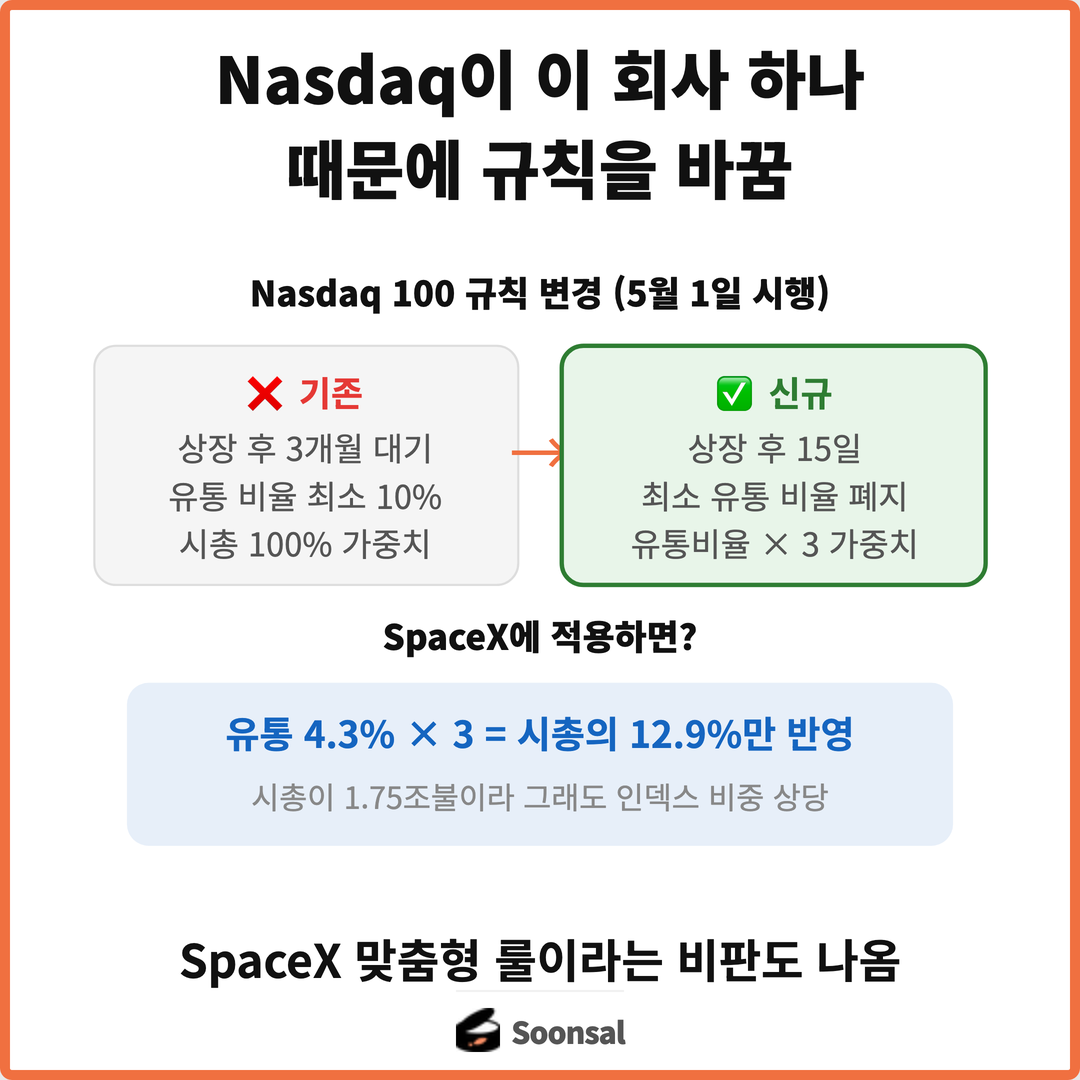
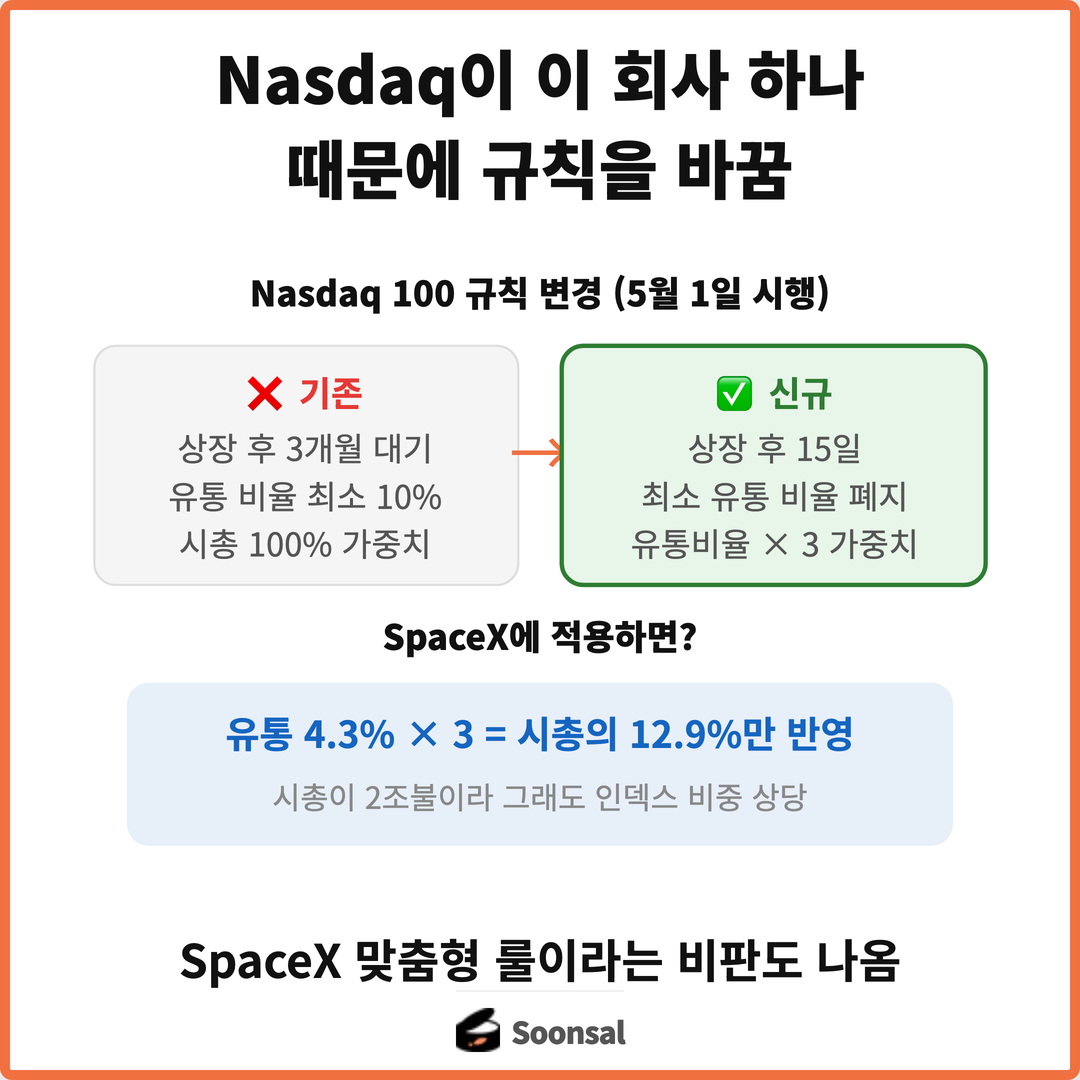
Add 순살카드뉴스 0406

Changed region(s): [[0.2444, 0.7028, 0.7639, 0.7639]]

diff --git a/cardnews/2026/0406.html b/cardnews/2026/0406.html
@@ -96,7 +96,7 @@
 
 <!-- ===== CARD 2 (팩트폭탄) ===== -->
 <div class="card">
-  <div class="top-text">시총 1.75조불짜리가<br>상장함</div>
+  <div class="top-text">시총 2조불짜리가<br>상장함</div>
   <div class="illust">
     <svg width="460" height="280" viewBox="0 0 460 280">
       <!-- SpaceX vs 유통 비율 비교 -->
@@ -104,7 +104,7 @@
 
       <!-- 시총 바 -->
       <rect x="40" y="50" width="380" height="40" rx="6" fill="#1565C0"/>
-      <text x="230" y="77" text-anchor="middle" font-size="16" font-weight="700" fill="#fff">시총 $1.75조 — 미국 5위 기업</text>
+      <text x="230" y="77" text-anchor="middle" font-size="16" font-weight="700" fill="#fff">시총 $2조 — 미국 5위 기업</text>
 
       <!-- 유통 비율 바 -->
       <rect x="40" y="105" width="16" height="40" rx="6" fill="#e53935"/>
@@ -158,7 +158,7 @@
 
       <rect x="40" y="195" width="380" height="75" rx="10" fill="#1565C0" opacity="0.1"/>
       <text x="230" y="225" text-anchor="middle" font-size="17" font-weight="700" fill="#1565C0">유통 4.3% × 3 = 시총의 12.9%만 반영</text>
-      <text x="230" y="253" text-anchor="middle" font-size="14" fill="#888">시총이 1.75조불이라 그래도 인덱스 비중 상당</text>
+      <text x="230" y="253" text-anchor="middle" font-size="14" fill="#888">시총이 2조불이라 그래도 인덱스 비중 상당</text>
     </svg>
   </div>
   <div class="bottom-text small">SpaceX 맞춤형 룰이라는 비판도 나옴</div>
